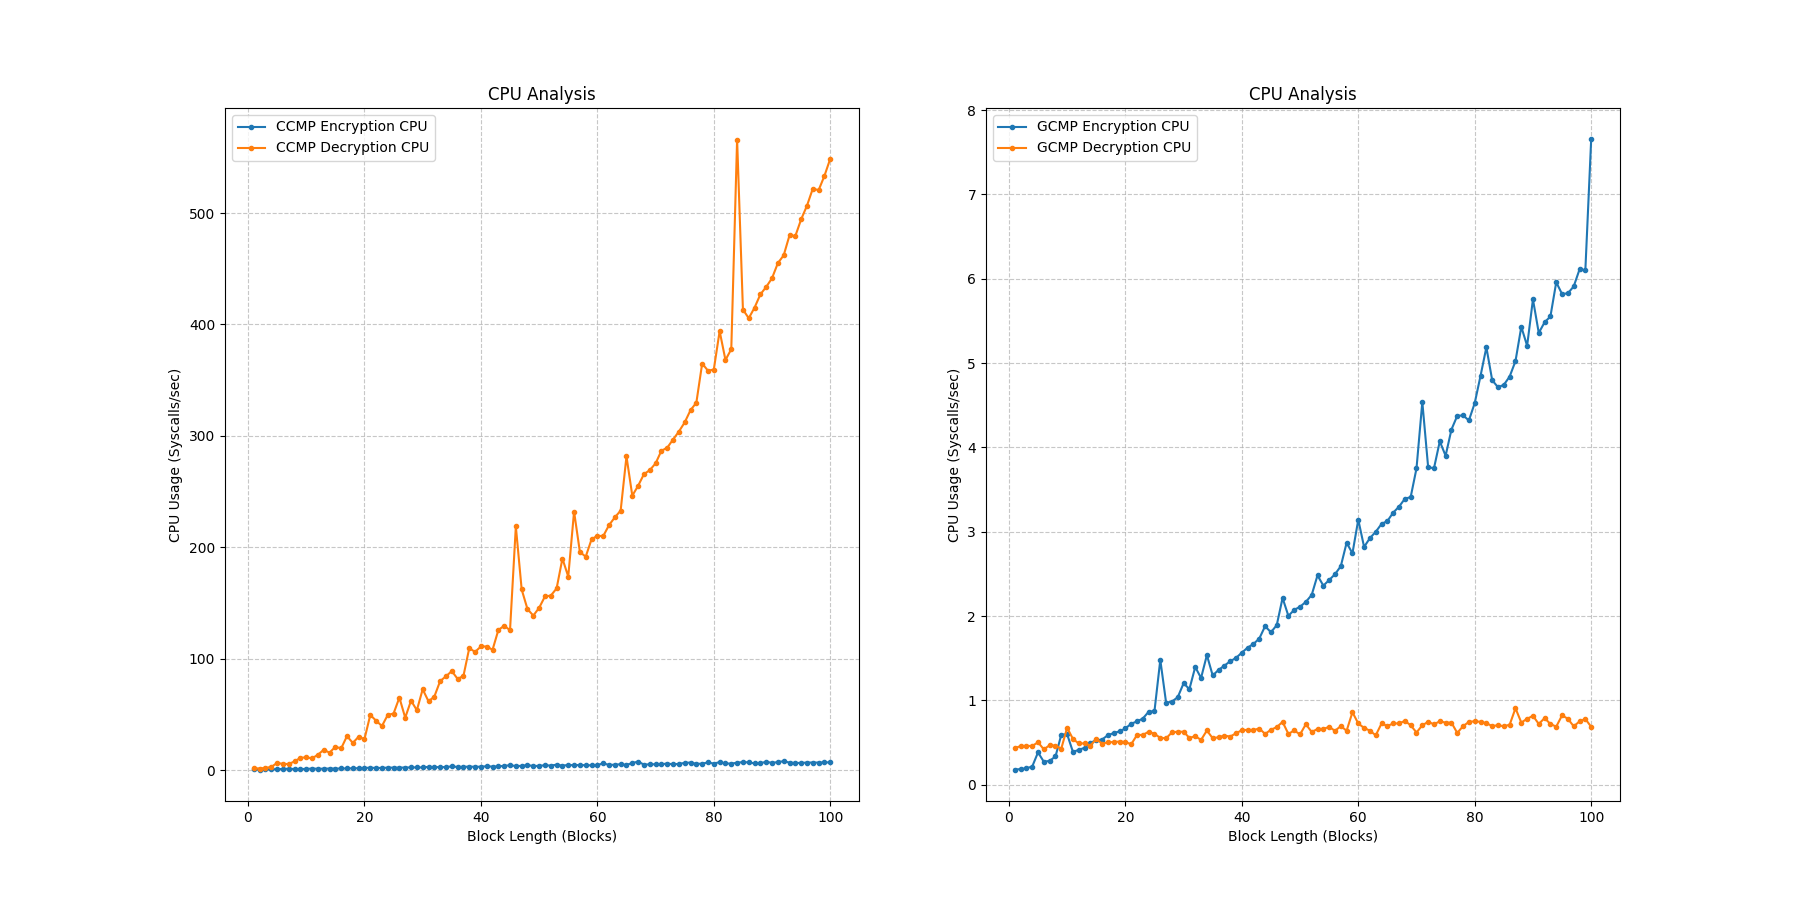
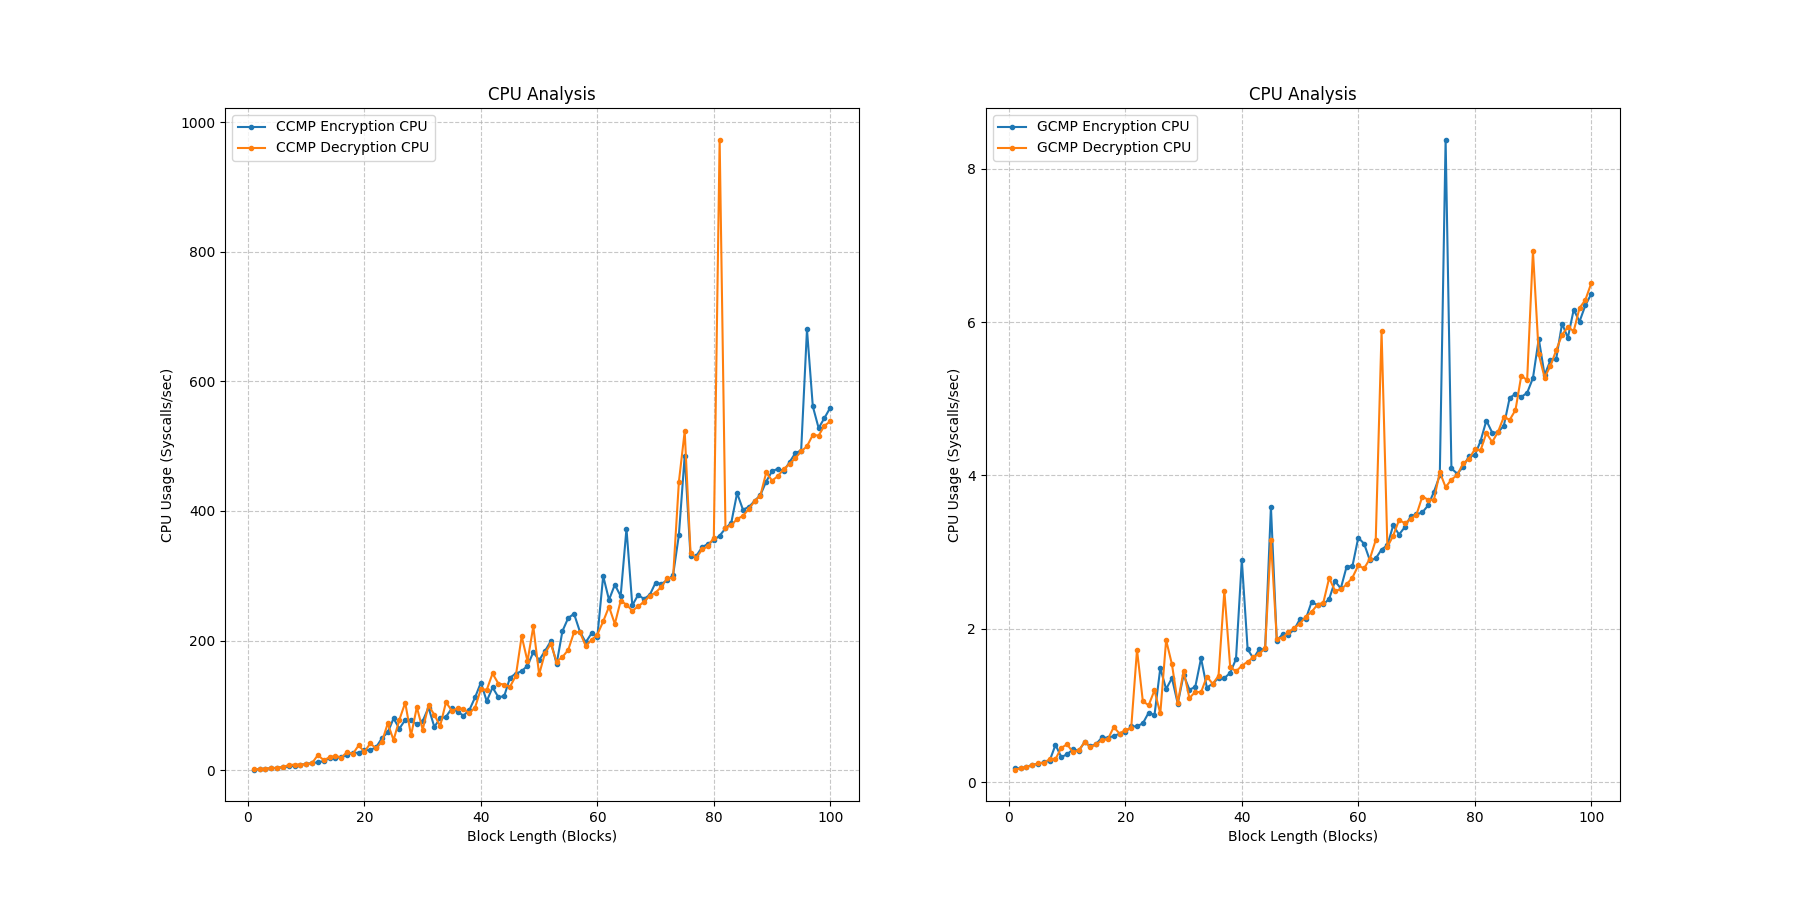
without threading

diff --git a/pyAES.py b/pyAES.py
@@ -248,18 +248,18 @@ class AES:
         return xor_bytes(self.ivs[0], previous)
     
     def encrypt_ccmp(self, frame_header, plaintext):
-        def tp1(a):
-            self.ct = self.encrypt_ctr(a)
-        def tp2(b):
-            self.smic = self.cbcmac(b)
-        t1 = threading.Thread(target=tp1, args=(plaintext,))
-        t2 = threading.Thread(target=tp2, args=(frame_header+plaintext,))
-        t1.start()
-        t2.start()
-        t1.join()
-        t2.join()
-        # self.ct = self.encrypt_ctr(plaintext)
-        # self.smic = self.cbcmac(frame_header+plaintext)
+        # def tp1(a):
+        #     self.ct = self.encrypt_ctr(a)
+        # def tp2(b):
+        #     self.smic = self.cbcmac(b)
+        # t1 = threading.Thread(target=tp1, args=(plaintext,))
+        # t2 = threading.Thread(target=tp2, args=(frame_header+plaintext,))
+        # t1.start()
+        # t2.start()
+        # t1.join()
+        # t2.join()
+        self.ct = self.encrypt_ctr(plaintext)
+        self.smic = self.cbcmac(frame_header+plaintext)
         return self.ct, self.smic
 
     def decrypt_ccmp(self, frame_header, ciphertext):
@@ -273,18 +273,18 @@ class AES:
         return ciphertext, mic
 
     def decrypt_gcmp(self, frame_header, ciphertext):
-        def tp1(a):
-            self.pt = self.decrypt_ctr(a)
-        def tp2(b):
-            self.rmic = self.gmac(b)
-        t1 = threading.Thread(target=tp1, args=(ciphertext,))
-        t2 = threading.Thread(target=tp2, args=(ciphertext,))
-        t1.start()
-        t2.start()
-        t1.join()
-        t2.join()
-        # self.pt = self.decrypt_ctr(ciphertext)
-        # self.rmic = self.gmac(ciphertext)
+        # def tp1(a):
+        #     self.pt = self.decrypt_ctr(a)
+        # def tp2(b):
+        #     self.rmic = self.gmac(b)
+        # t1 = threading.Thread(target=tp1, args=(ciphertext,))
+        # t2 = threading.Thread(target=tp2, args=(ciphertext,))
+        # t1.start()
+        # t2.start()
+        # t1.join()
+        # t2.join()
+        self.pt = self.decrypt_ctr(ciphertext)
+        self.rmic = self.gmac(ciphertext)
         return self.pt, self.rmic
 
 
